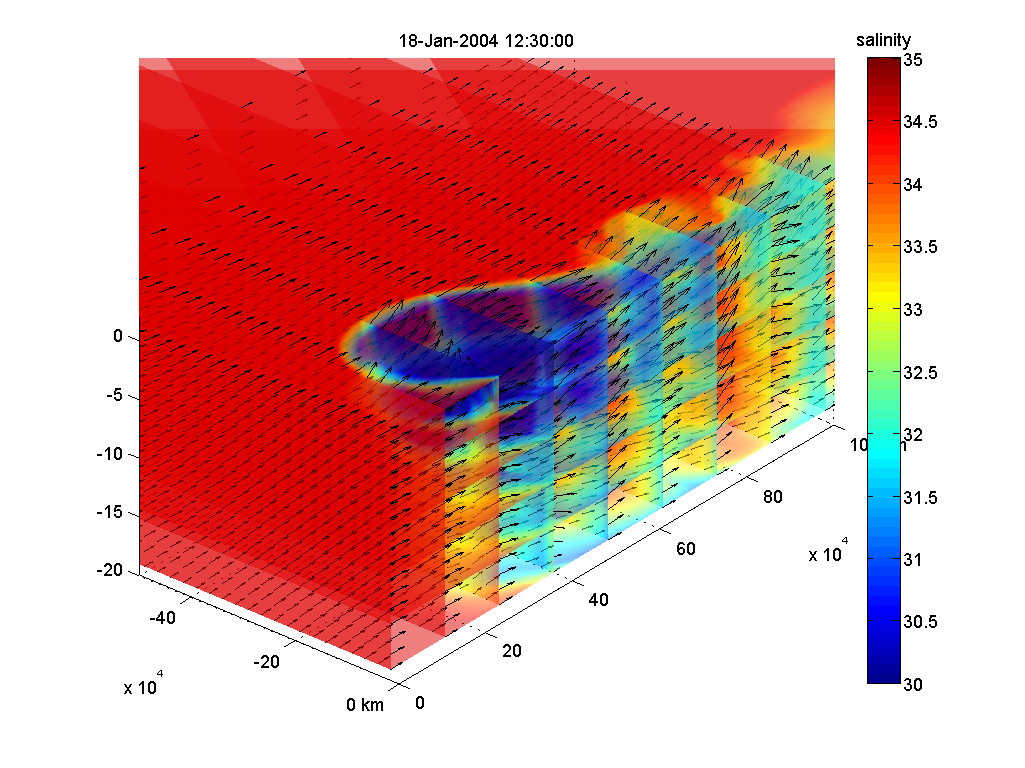
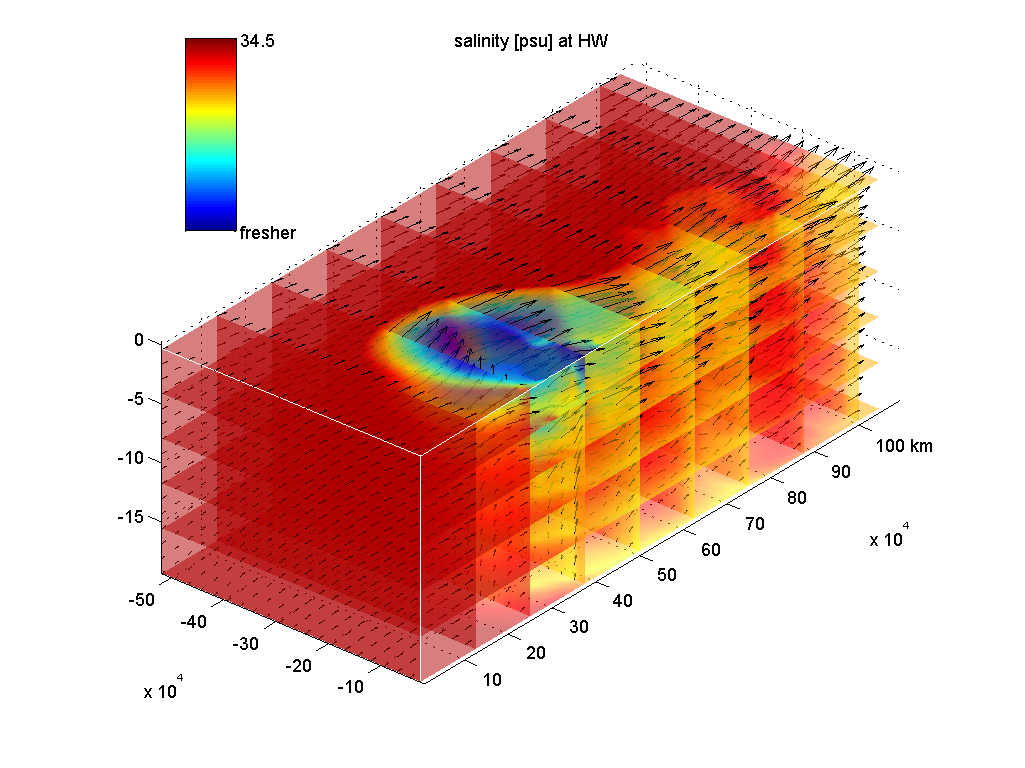
delft3d 3D visualization example updated
svn path=/trunk/matlab/; revision=5205

Former-commit-id: ae5334e9118b1ca9fad5928ab9b80eee06def264

diff --git a/applications/delft3d/delft3d_3d_visualisation_example.m b/applications/delft3d/delft3d_3d_visualisation_example.m
@@ -1,4 +1,4 @@
-function delft3d_3d_visualisation_example(varargin)
+%function delft3d_3d_visualisation_example(varargin)
 %DELFT3D_3D_VISUALISATION_EXAMPLE   Example to make 3D graphics from delft3d trim file
 %
 % For large grids with time variation, the resulting kml
@@ -8,22 +8,35 @@ function delft3d_3d_visualisation_example(varargin)
 
 %% settings
 
-   OPT.fname   = 'F:\DELFT3D\PECS\tide_neap_wind\trim-p77.def';
+   OPT.fname   = 'trim-RUNID.def';
    OPT.export  = 1;
-   OPT.pause   = 0;
+   OPT.pause   = 1;
    OPT.uvscale = 1e4; % 1 m/s becomes x m
    OPT.wscale  = 2e3; % 1 m/s becomes x m
    OPT.axis    = [-50e3 0 0 100e3 -20 2];
-   OPT.clim    = [30 35];
-   
-   % plot not all point as matlab is too slow for that,
-   % and the human mind too limited
 
-   OPT.dm      =  5; % cross shore stride
-   OPT.dn      = 25; % along shore stride
-   OPT.dk      = 3;  % sigma layer stride
+   OPT.clim    = [11.5 12.5];
+   OPT.scalar  = 'temperature'; %'salinity'
+   OPT.title   = 'temperature [\circ C] at HW'; %'salinity'
+   
+   OPT.clim    = [25 35];
+   OPT.scalar  = 'salinity'
+   OPT.title   = 'salinity [psu] at HW';
+
+%% spatial subset settings
+%  plot not all point as matlab is too slow for that,
+%  and the human mind too limited
+
+   OPT.dm   =  5; % cross shore stride
+   OPT.dn   = 25; % along shore stride
+   OPT.dk   = 3;  % sigma layer stride
+
+   OPT.mmin = 52;
+   OPT.mmax = 151;
+   OPT.nmin = 1;
+   OPT.nmax = 210;
  
-%% settings
+%% load and plot
 
    H = vs_use(OPT.fname);
    T = vs_time(H);
@@ -39,49 +52,82 @@ function delft3d_3d_visualisation_example(varargin)
       G                = vs_meshgrid3dcorcen     (H, it, G);
    
       % dissolved substances
-      I                = vs_get_constituent_index(H, 'salinity');
-      D.cen.salinity   = vs_let_scalar           (H,'map-series',{it}, 'R1'      , {0,0,0,I.index});
+      I                  = vs_get_constituent_index(H,OPT.scalar);
+      D.cen.(OPT.scalar) = vs_let_scalar           (H,'map-series',{it}, 'R1'      , {0,0,0,I.index});
    
       % horizontal velocities
-     [D.cen.u,D.cen.v] = vs_let_vector_cen       (H,'map-series',{it},{'U1','V1'}, {0,0,0});
+     [D.cen.u,D.cen.v]   = vs_let_vector_cen       (H,'map-series',{it},{'U1','V1'}, {0,0,0});
       
       % vertical velocity
-      D.cen.w          = vs_let_scalar           (H,'map-series',{it}, 'WPHY'    , {0,0,0,});
+      D.cen.w            = vs_let_scalar           (H,'map-series',{it}, 'WPHY'    , {0,0,0,});
      
       hold off 
       
       dn = OPT.dn;
       dm = OPT.dm;
       dk = OPT.dk;
+      mmin = OPT.mmin;
+      mmax = OPT.mmax;
+      nmin = OPT.nmin;
+      nmax = OPT.nmax;
 
    %% 3D velocity field
 
-      h.q = quiver3(G.cen.cent.x(  1:dn:end,1:dm:end,:),...
-                    G.cen.cent.y(  1:dn:end,1:dm:end,:),...
-                    G.cen.cent.z(  1:dn:end,1:dm:end,:),...
-                 permute(D.cen.u(1,1:dn:end,1:dm:end,:),[2 3 4 1]).*OPT.uvscale,...
-                 permute(D.cen.v(1,1:dn:end,1:dm:end,:),[2 3 4 1]).*OPT.uvscale,...
-                         D.cen.w(  1:dn:end,1:dm:end,:)           .*OPT.wscale,0,'k');
+      h.q = quiver3(G.cen.cent.x(  nmin:dn:nmax,mmin:dm:mmax,:),...
+                    G.cen.cent.y(  nmin:dn:nmax,mmin:dm:mmax,:),...
+                    G.cen.cent.z(  nmin:dn:nmax,mmin:dm:mmax,:),...
+                 permute(D.cen.u(1,nmin:dn:nmax,mmin:dm:mmax,:),[2 3 4 1]).*OPT.uvscale,...
+                 permute(D.cen.v(1,nmin:dn:nmax,mmin:dm:mmax,:),[2 3 4 1]).*OPT.uvscale,...
+                         D.cen.w(  nmin:dn:nmax,mmin:dm:mmax,:)           .*OPT.wscale,0,'k');
       hold on
       
    %% horizontal scalar slices
-
+   
       for k=1:dk:G.kmax
-      h.s = surf(permute(G.cen.cent.x  (:,:,k),[1 2 3]),...
-                 permute(G.cen.cent.y  (:,:,k),[1 2 3]),...
-                 permute(G.cen.cent.z  (:,:,k),[1 2 3]),...
-                 permute(D.cen.salinity(:,:,k),[1 2 3]));
+      h.s = surf(permute(G.cen.cent.x      (nmin:nmax,mmin:mmax,k),[1 2 3]),...
+                 permute(G.cen.cent.y      (nmin:nmax,mmin:mmax,k),[1 2 3]),...
+                 permute(G.cen.cent.z      (nmin:nmax,mmin:mmax,k),[1 2 3]),...
+                 permute(D.cen.(OPT.scalar)(nmin:nmax,mmin:mmax,k),[1 2 3]));
                  
+      end
+
+   %% draw white lines at outer ribs of data
+
+      for k=[1 G.kmax]
+      h.s = plot3(squeeze(G.cen.cent.x  (nmin:nmax,mmin,k)),...
+                  squeeze(G.cen.cent.y  (nmin:nmax,mmin,k)),...
+                  squeeze(G.cen.cent.z  (nmin:nmax,mmin,k)),'w');
+      h.s = plot3(squeeze(G.cen.cent.x  (nmin:nmax,mmax,k)),...
+                  squeeze(G.cen.cent.y  (nmin:nmax,mmax,k)),...
+                  squeeze(G.cen.cent.z  (nmin:nmax,mmax,k)),'w');
+
+      h.s = plot3(squeeze(G.cen.cent.x  (nmin,mmin:mmax,k)),...
+                  squeeze(G.cen.cent.y  (nmin,mmin:mmax,k)),...
+                  squeeze(G.cen.cent.z  (nmin,mmin:mmax,k)),'w');
+      h.s = plot3(squeeze(G.cen.cent.x  (nmax,mmin:mmax,k)),...
+                  squeeze(G.cen.cent.y  (nmax,mmin:mmax,k)),...
+                  squeeze(G.cen.cent.z  (nmax,mmin:mmax,k)),'w');
+
+      end
+      
+      for n1=[nmin nmax]
+      for m1=[mmin mmax]
+
+      h.s = plot3(squeeze(G.cen.cent.x  (n1,m1,:)),...
+                  squeeze(G.cen.cent.y  (n1,m1,:)),...
+                  squeeze(G.cen.cent.z  (n1,m1,:)),'w');
+                  
+      end
       end
    
    %% vertical scalar slices
 
-      for n=1:dn:G.nmax
+      for n=nmin:dn:nmax
       
-      h.s = surf(permute(G.cen.cent.x  (n,:,:),[2 3 1]),...
-                 permute(G.cen.cent.y  (n,:,:),[2 3 1]),...
-                 permute(G.cen.cent.z  (n,:,:),[2 3 1]),...
-                 permute(D.cen.salinity(n,:,:),[2 3 1]));
+      h.s = surf(permute(G.cen.cent.x      (n,mmin:mmax,:),[2 3 1]),...
+                 permute(G.cen.cent.y      (n,mmin:mmax,:),[2 3 1]),...
+                 permute(G.cen.cent.z      (n,mmin:mmax,:),[2 3 1]),...
+                 permute(D.cen.(OPT.scalar)(n,mmin:mmax,:),[2 3 1]));
       
       end
       
@@ -89,7 +135,7 @@ function delft3d_3d_visualisation_example(varargin)
 
       axis   (OPT.axis)
       grid    on
-      title  (datestr(T.datenum(it)))
+      title  (OPT.title)
       set    (gca,'dataAspectRatio',[1 1 5e-4])
       view   (40,30)
       set    (h.q,'clipping','on')
@@ -98,12 +144,20 @@ function delft3d_3d_visualisation_example(varargin)
       alpha  (0.5)
       tickmap('xy')
       shading interp
-      colorbarwithtitle('salinity')
+      h.c = colorbar
+      set(h.c,'position',[0.18 0.7 0.05 0.25])
+      set(h.c,'ytick',OPT.clim)
+      if strcmp(OPT.scalar,'temperature')
+      set(h.c,'yticklabel',{'cold','hot'})
+      else
+      set(h.c,'yticklabel',{'fresher','34.5'})
+      end
+      axis tight
       
    %% export
 
       if OPT.export
-      print2screensize([fileparts(H.DatExt),filesep,'salinity_',num2str(it,'%0.2d')])
+      print2screensize([fileparts(H.DatExt),filesep,OPT.scalar,'_',num2str(it,'%0.2d')])
       end
    
       if OPT.pause
